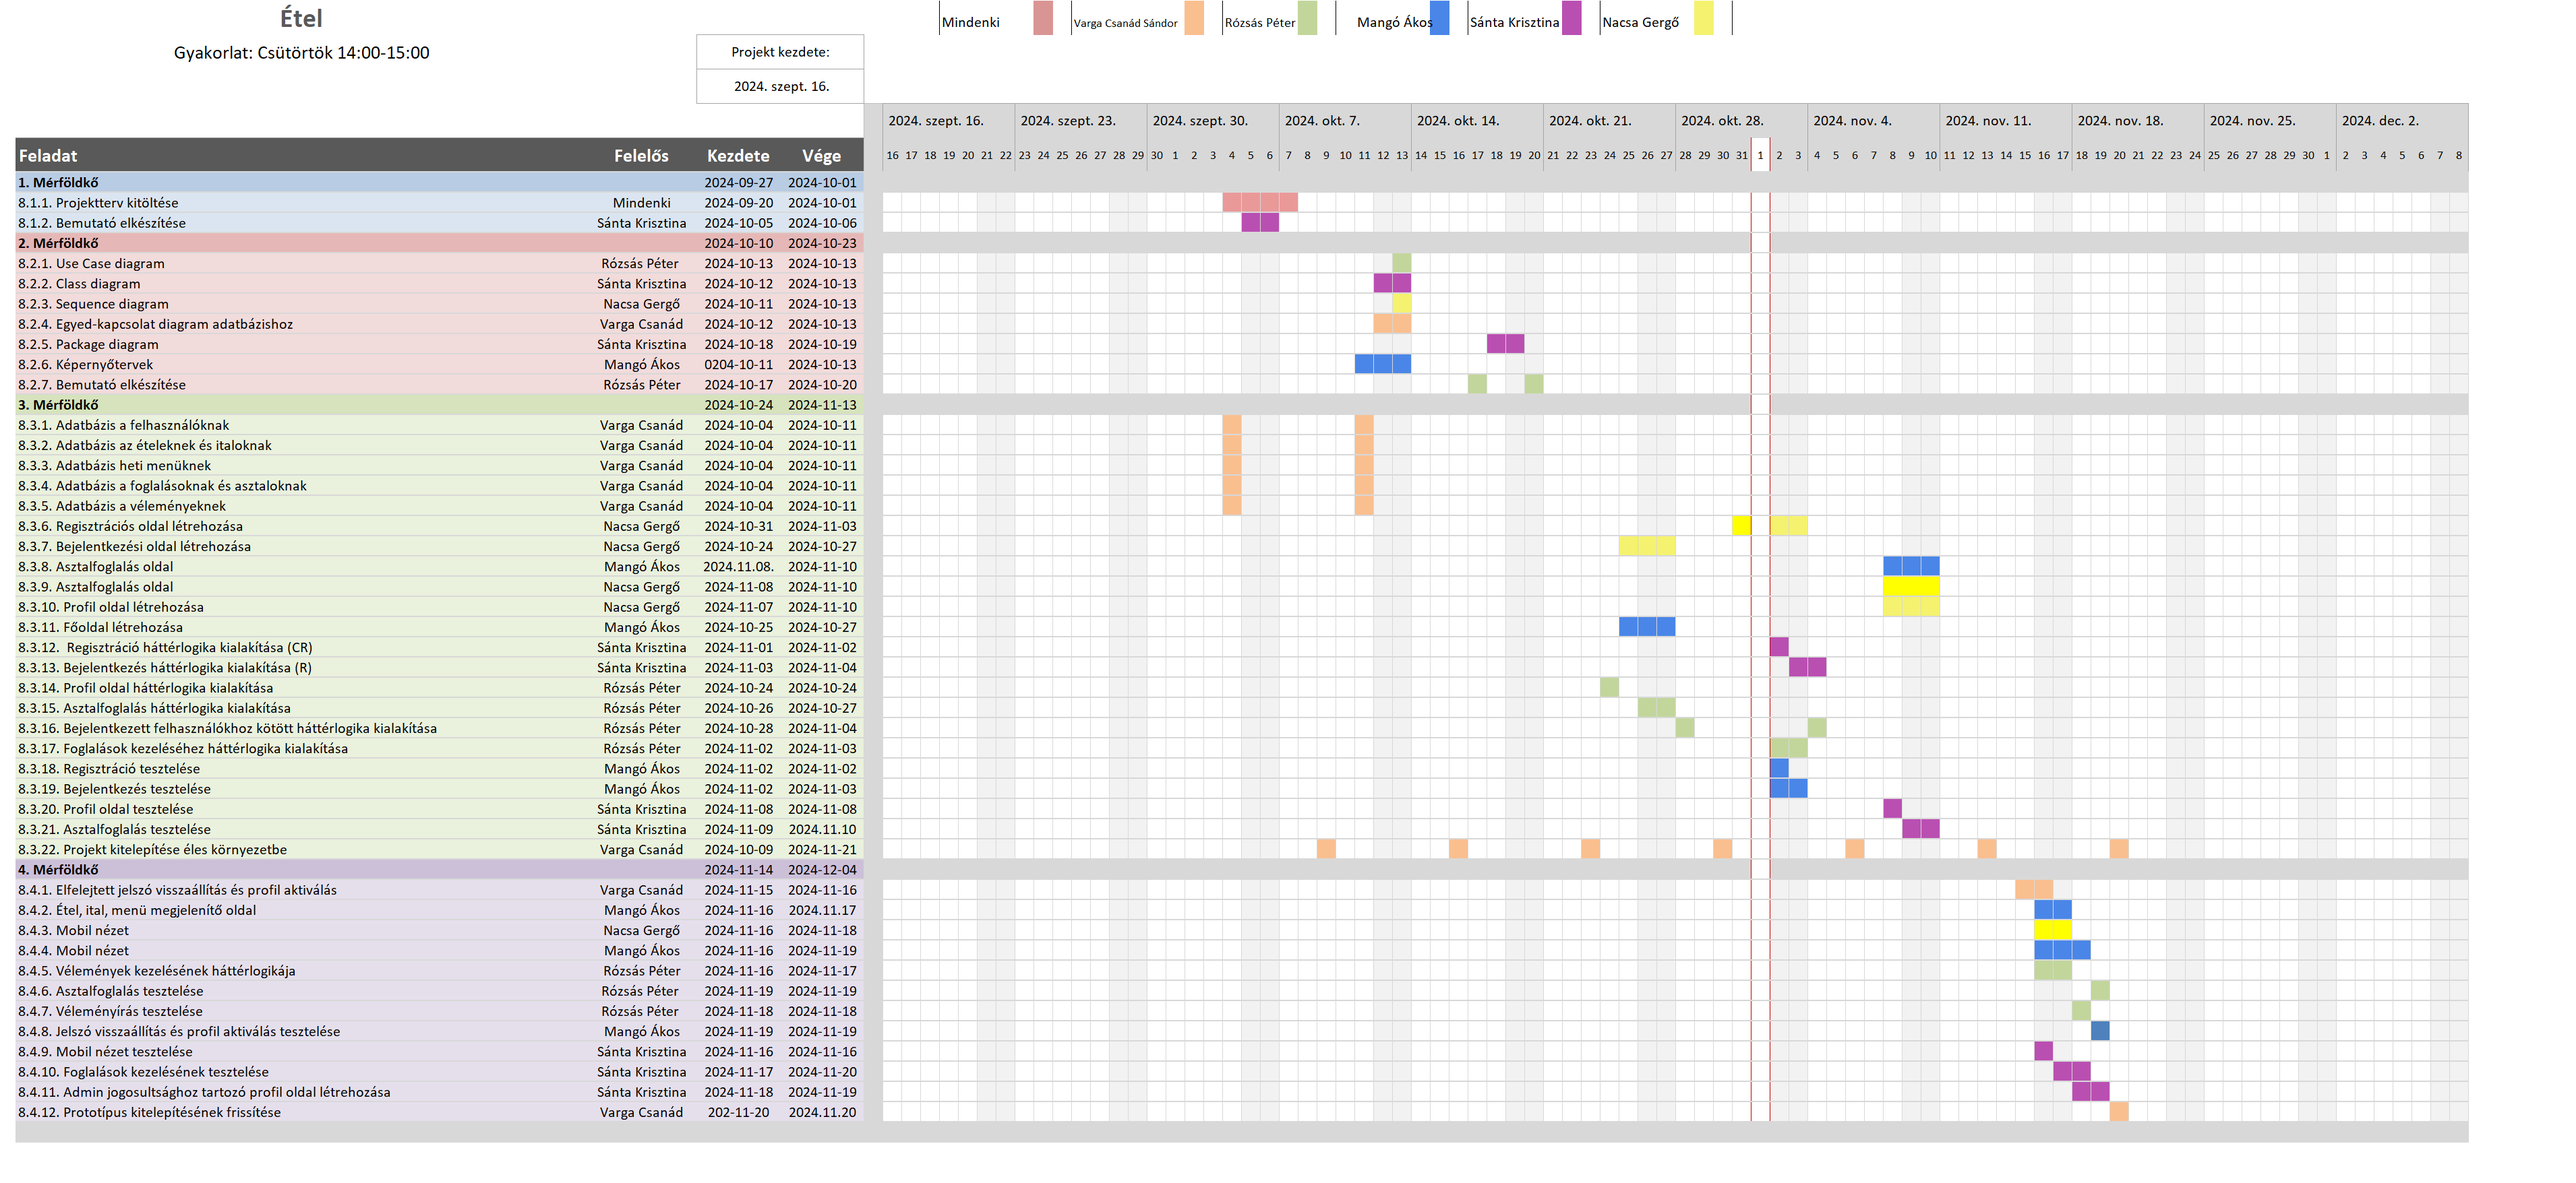
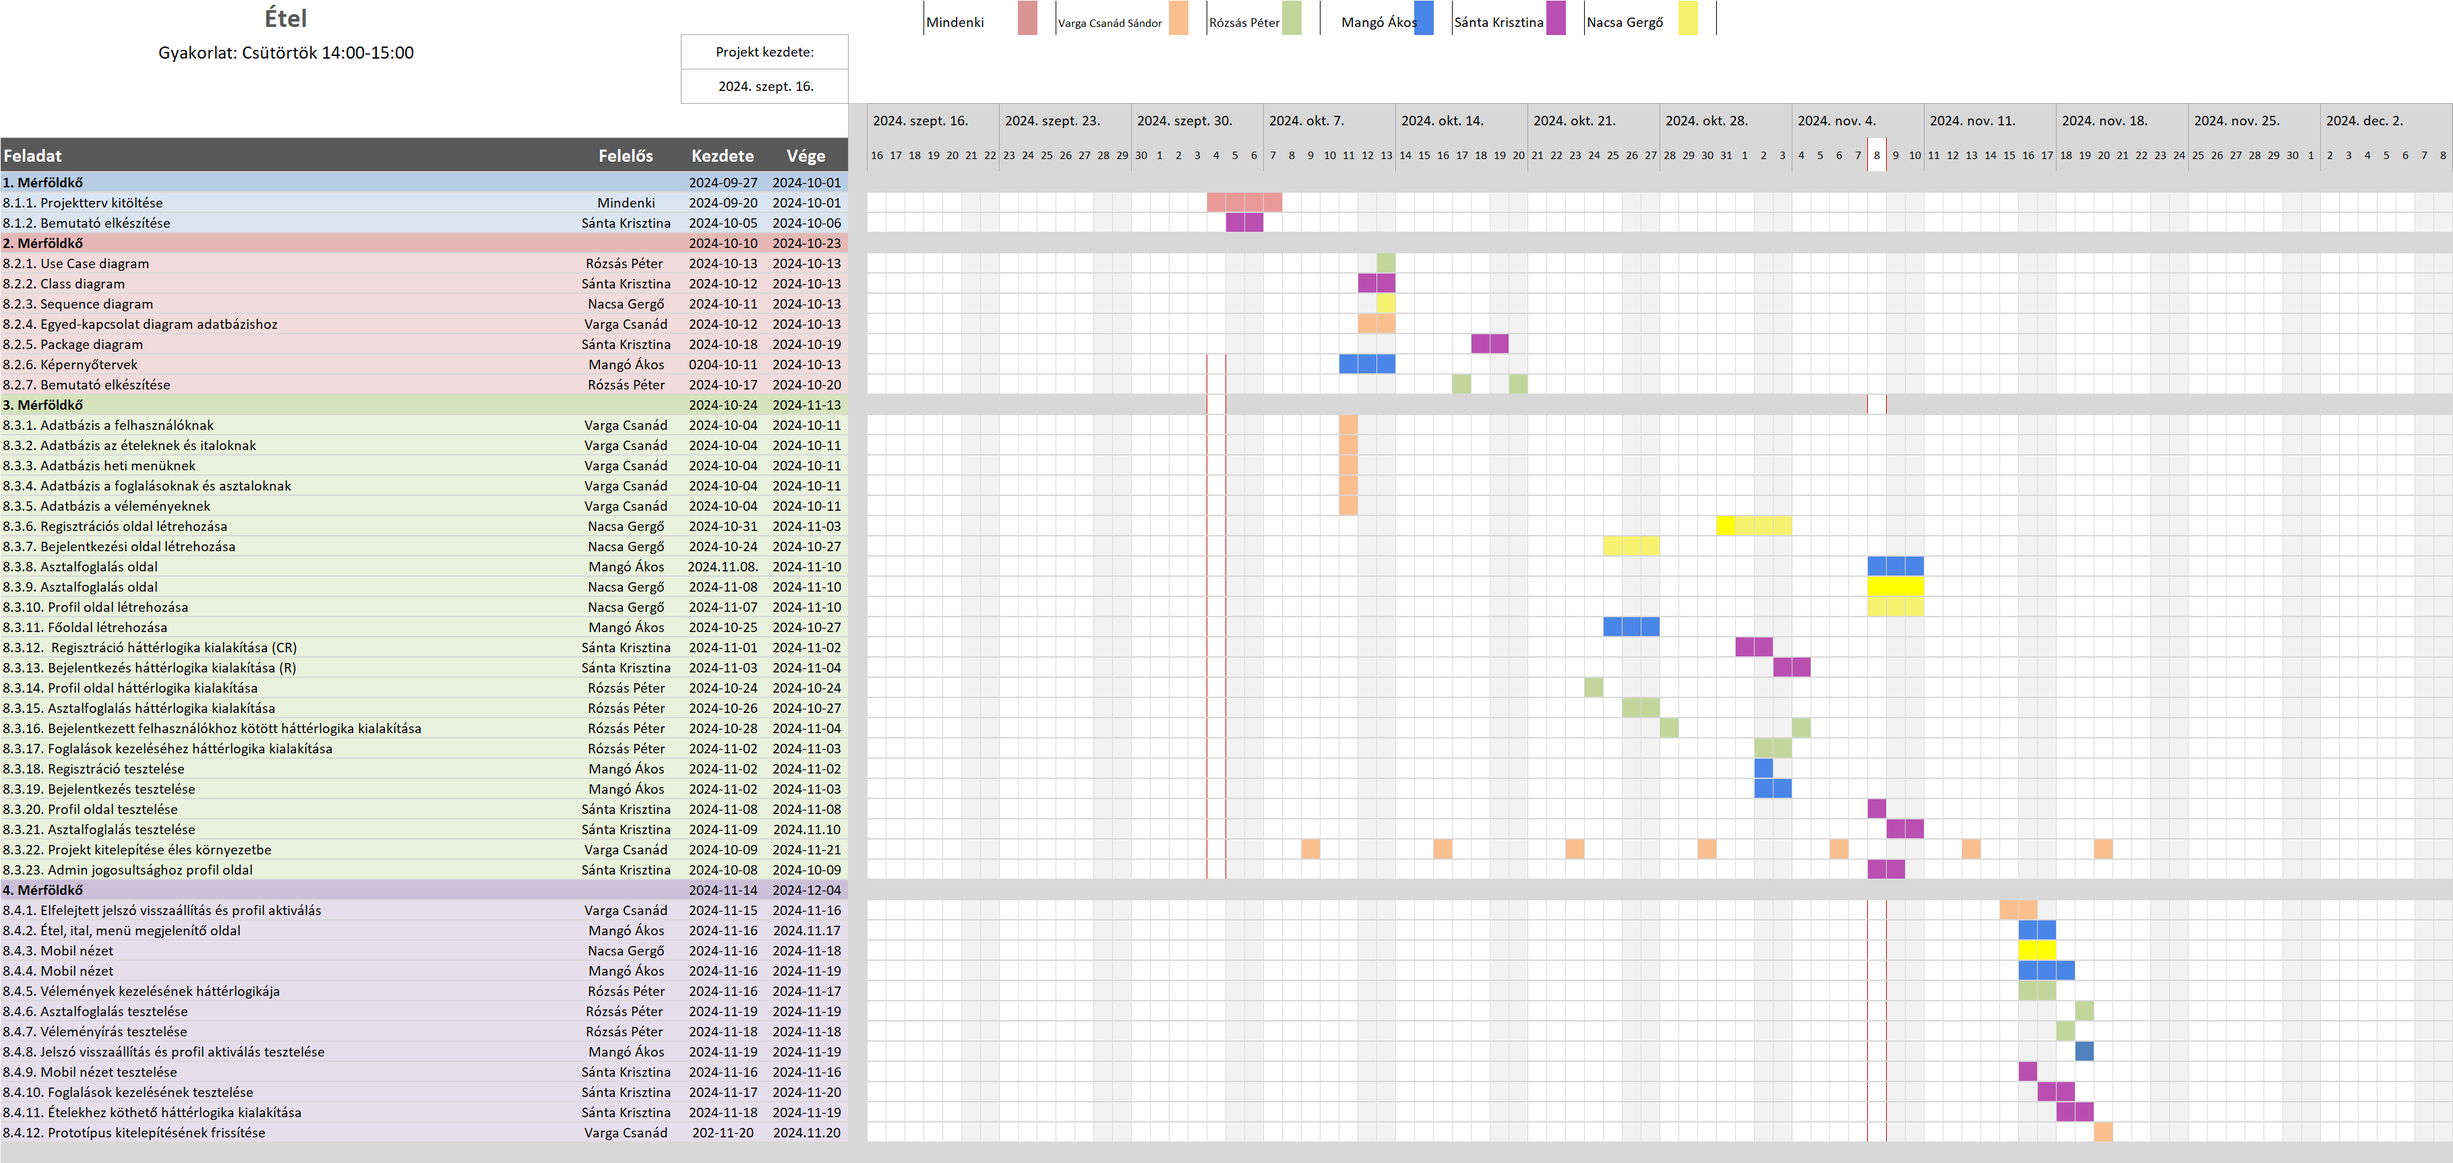
update projektterv

Changed region(s): [[0.0, 0.0307, 1.0, 1.0], [0.3726, 0.0, 0.7142, 0.0307], [0.0621, 0.0, 0.1863, 0.0614]]

diff --git a/Projektterv.md b/Projektterv.md
@@ -443,6 +443,14 @@ Tartam: 1 nap
 
 Erőforrásigény: 1/4 személynap
 
+#### 8.3.23.  Admin jogosultsághoz tartozó profil oldal létrehozása
+
+Felelős: Sánta Krisztina Csilla
+
+Tartam: 1 nap
+
+Erőforrásigény: 1 személynap
+
 
 ### 8.4. Prototípus II. (4. mérföldkő)
 
@@ -530,7 +538,7 @@ Tartam:  2 nap
 
 Erőforrásigény:  1 személynap
 
-#### 8.4.11. Admin jogosultsághoz tartozó profil oldal létrehozása
+#### 8.4.11. Ételekhez tartozó háttérlogika kialakítása
 
 Felelős: Sánta Krisztina Csilla
 
